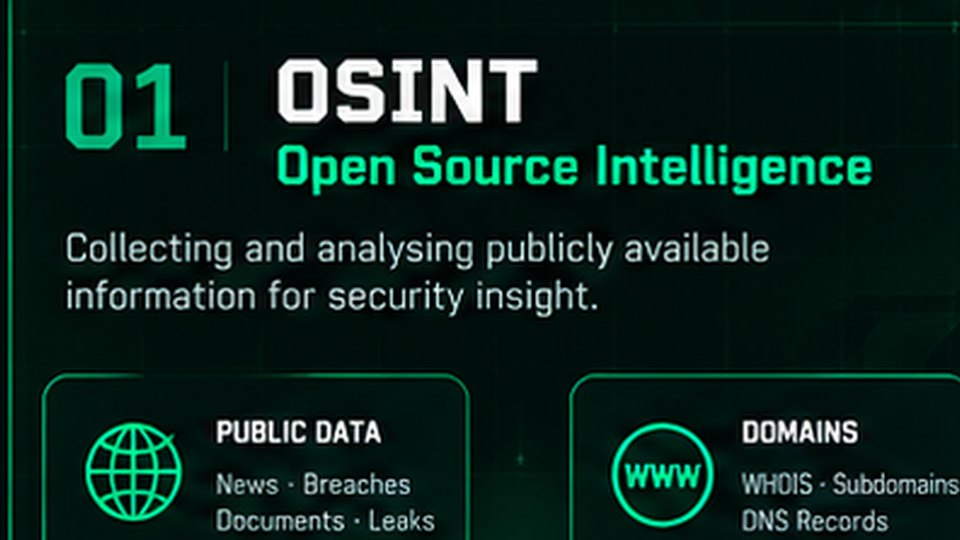
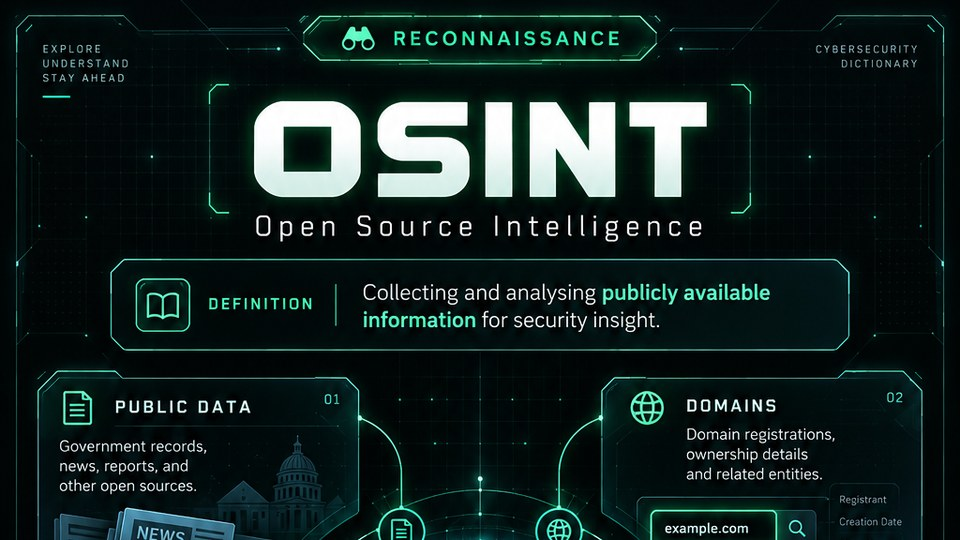
Release CyberDict v0.8 with expanded visual knowledge library

diff --git a/public/index.html b/public/index.html
@@ -1,7 +1,7 @@
 <!doctype html><html lang="en"><head><meta charset="utf-8"><meta name="viewport" content="width=device-width,initial-scale=1">
 <title>CyberDict · Cybersecurity Knowledge Explorer</title>
 <meta name="description" content="A community cybersecurity dictionary and interactive knowledge explorer for offensive security, defensive security, purple teaming and AI security.">
-<link rel="stylesheet" href="/assets/css/style.css?v=0.7.0"></head><body>
+<link rel="stylesheet" href="/assets/css/style.css?v=0.8.0"></head><body>
 <header class="topbar"><div class="wrap nav">
 <a class="brand" href="/"><div class="logo"><span>›</span></div><div><h1>Cyber<b>Dict</b></h1><small>CYBERSECURITY KNOWLEDGE EXPLORER</small></div></a>
 <nav class="navlinks"><a class="active" href="/">Home</a><a href="/explore/">Dictionary</a><a href="/category/">Categories</a><a href="/learn/">Learn</a><a href="/about/">About</a></nav>
@@ -11,7 +11,7 @@
 <main>
 <section class="hero"><div class="wrap">
 <div class="hero-grid hero-grid-single"><div class="hero-copy">
-<div class="kicker">v0.7.0 &nbsp; // OPEN KNOWLEDGE &nbsp; // STRONGER SECURITY</div>
+<div class="kicker">v0.8.0 &nbsp; // OPEN KNOWLEDGE &nbsp; // STRONGER SECURITY</div>
 <h2>Cyber<span>Dict</span></h2>
 <h3>Cybersecurity Knowledge Explorer</h3>
 <p>Understand cybersecurity concepts, techniques, roles and frameworks through clear definitions, practical context and visual explanations.</p>
@@ -32,7 +32,7 @@
 <div class="stats">
 <div class="stat"><div class="n">40+</div><div><small>CURATED TERMS</small><em>Structured seed content</em></div></div>
 <div class="stat"><div class="n">12</div><div><small>KNOWLEDGE SECTORS</small><em>Broad security coverage</em></div></div>
-<div class="stat"><div class="n">20</div><div><small>VISUAL EXPLAINERS</small><em>Essential terminology</em></div></div>
+<div class="stat"><div class="n">24</div><div><small>VISUAL EXPLAINERS</small><em>Essential terminology</em></div></div>
 <div class="stat"><div class="n">MITRE / CWE / OWASP</div><div><small>FRAMEWORK MAPPINGS</small><em>Context where relevant</em></div></div>
 </div>
 </div></section>
@@ -54,7 +54,7 @@
 </div></div></section>
 
 <section class="section" id="essential"><div class="wrap">
-<div class="section-head"><h3>20 ESSENTIAL CYBERSECURITY TERMS</h3><a href="/explore/">FULL DICTIONARY →</a></div>
+<div class="section-head"><h3>ESSENTIAL CYBERSECURITY TERMS</h3><a href="/explore/">FULL DICTIONARY →</a></div>
 <div id="essentialGrid" class="essential-grid"></div>
 </div></section>
 
@@ -66,4 +66,4 @@
 </div>
 </div></section>
 </main><footer class="footer"><div class="wrap row"><div><b style="color:#cfe2d5">Cyber<span style="color:#00ff66">Dict</span></b> · Cybersecurity Knowledge Explorer</div><div>OPEN KNOWLEDGE · PRACTICAL SECURITY · COMMUNITY DRIVEN</div></div></footer>
-<script src="/assets/js/app.js?v=0.7.0"></script><script>initHome()</script></body></html>
+<script src="/assets/js/app.js?v=0.8.0"></script><script>initHome()</script></body></html>

diff --git a/public/assets/js/app.js b/public/assets/js/app.js
@@ -8,7 +8,7 @@ function esc(s){return String(s??'').replace(/[&<>"']/g,m=>({'&':'&amp;','<':'&l
 function diffClass(d){return d==='Beginner'?'green':d==='Advanced'?'red':'yellow'}
 function termUrl(t){return `/term/?id=${encodeURIComponent(t.id)}`}
 function categoryUrl(c){return `/category/?id=${encodeURIComponent(c.id)}`}
-const RASTER_TERM_IDS=new Set(['ctf','c2','red-team','blue-team','purple-team','soc','siem','edr','osint','phishing','privilege-escalation','persistence','lateral-movement','pivoting','ttps','ioc','mitre-attck','vulnerability','exploit','incident-response']);
+const RASTER_TERM_IDS=new Set(['ctf','c2','red-team','blue-team','purple-team','soc','siem','edr','osint','phishing','privilege-escalation','persistence','lateral-movement','pivoting','ttps','ioc','mitre-attck','vulnerability','exploit','incident-response','threat-hunting','zero-trust','ransomware','mfa']);
 function visualUrl(t){const id=encodeURIComponent(t.id);return `/assets/img/terms/${id}.${RASTER_TERM_IDS.has(t.id)?'png':'svg'}` }
 function previewUrl(t){const id=encodeURIComponent(t.id);return RASTER_TERM_IDS.has(t.id)?`/assets/img/previews/${id}.jpg`:visualUrl(t)}
 function doSearch(inputId='heroSearch', resultsId='searchResults'){
@@ -22,7 +22,7 @@ function doSearch(inputId='heroSearch', resultsId='searchResults'){
 function renderHome(){
   const cats=document.getElementById('categories');
   if(cats) cats.innerHTML=CATEGORIES.slice(0,12).map(c=>`<a class="cat" href="${categoryUrl(c)}"><div class="ic">${c.icon}</div><div><b>${esc(c.name)}</b><span>${c.count} concepts</span></div></a>`).join('');
-  const essentialIds=['ctf','c2','red-team','blue-team','purple-team','soc','siem','edr','osint','phishing','privilege-escalation','persistence','lateral-movement','pivoting','ttps','ioc','mitre-attck','vulnerability','exploit','incident-response'];
+  const essentialIds=['ctf','c2','red-team','blue-team','purple-team','soc','siem','edr','osint','phishing','privilege-escalation','persistence','lateral-movement','pivoting','ttps','ioc','mitre-attck','vulnerability','exploit','incident-response','threat-hunting','zero-trust','ransomware','mfa'];
   const essentials=essentialIds.map(id=>TERMS.find(t=>t.id===id)).filter(Boolean);
   const featured=document.getElementById('featuredPrimary');
   if(featured && essentials[0]){

diff --git a/public/explore/index.html b/public/explore/index.html
@@ -1,4 +1,4 @@
-<!doctype html><html lang="en"><head><meta charset="utf-8"><meta name="viewport" content="width=device-width,initial-scale=1"><title>Explore · CyberDict</title><link rel="stylesheet" href="/assets/css/style.css?v=0.7.0"></head><body>
+<!doctype html><html lang="en"><head><meta charset="utf-8"><meta name="viewport" content="width=device-width,initial-scale=1"><title>Explore · CyberDict</title><link rel="stylesheet" href="/assets/css/style.css?v=0.8.0"></head><body>
 <header class="topbar">
   <div class="wrap nav">
     <a class="brand" href="/"><div class="logo"><span>↗</span></div><div><h1>Cyber<b>Dict</b></h1><small>CYBERSECURITY KNOWLEDGE EXPLORER</small></div></a>
@@ -10,4 +10,4 @@
 <section class="section"><div class="wrap"><div class="section-head"><h3>ALL CURRENT TERMS</h3></div><div id="allTerms" class="terms-grid"></div></div></section></main>
 <footer class="footer"><div class="wrap row"><div><b style="color:#cfe2d5">Cyber<span style="color:#00ff66">Dict</span></b> · Community cybersecurity knowledge explorer</div><div>OPEN KNOWLEDGE · PRACTICAL SECURITY · COMMUNITY DRIVEN</div></div></footer>
 
-<script src="/assets/js/app.js?v=0.7.0"></script><script>(async()=>{await loadData();document.getElementById('allTerms').innerHTML=TERMS.map(t=>`<a class="term-card" href="${termUrl(t)}"><h4>${esc(t.term)}</h4><p>${esc(t.shortDefinition)}</p><div class="pills"><span class="pill green">${esc(t.category)}</span><span class="pill ${diffClass(t.difficulty)}">${esc(t.difficulty)}</span></div></a>`).join('');document.getElementById('heroSearch').addEventListener('input',()=>doSearch())})()</script></body></html>
+<script src="/assets/js/app.js?v=0.8.0"></script><script>(async()=>{await loadData();document.getElementById('allTerms').innerHTML=TERMS.map(t=>`<a class="term-card" href="${termUrl(t)}"><h4>${esc(t.term)}</h4><p>${esc(t.shortDefinition)}</p><div class="pills"><span class="pill green">${esc(t.category)}</span><span class="pill ${diffClass(t.difficulty)}">${esc(t.difficulty)}</span></div></a>`).join('');document.getElementById('heroSearch').addEventListener('input',()=>doSearch())})()</script></body></html>

diff --git a/public/learn/index.html b/public/learn/index.html
@@ -1,4 +1,4 @@
-<!doctype html><html lang="en"><head><meta charset="utf-8"><meta name="viewport" content="width=device-width,initial-scale=1"><title>Learn · CyberDict</title><link rel="stylesheet" href="/assets/css/style.css?v=0.7.0"></head><body>
+<!doctype html><html lang="en"><head><meta charset="utf-8"><meta name="viewport" content="width=device-width,initial-scale=1"><title>Learn · CyberDict</title><link rel="stylesheet" href="/assets/css/style.css?v=0.8.0"></head><body>
 <header class="topbar">
   <div class="wrap nav">
     <a class="brand" href="/"><div class="logo"><span>↗</span></div><div><h1>Cyber<b>Dict</b></h1><small>CYBERSECURITY KNOWLEDGE EXPLORER</small></div></a>
@@ -10,4 +10,4 @@
 <section class="section"><div class="wrap"><div class="categories" id="learnCats"></div></div></section></main>
 <footer class="footer"><div class="wrap row"><div><b style="color:#cfe2d5">Cyber<span style="color:#00ff66">Dict</span></b> · Community cybersecurity knowledge explorer</div><div>OPEN KNOWLEDGE · PRACTICAL SECURITY · COMMUNITY DRIVEN</div></div></footer>
 
-<script src="/assets/js/app.js?v=0.7.0"></script><script>(async()=>{await loadData();document.getElementById('learnCats').innerHTML=CATEGORIES.map(c=>`<a class="cat" href="${categoryUrl(c)}"><div class="ic">${c.icon}</div><div><b>${esc(c.name)}</b><span>${esc(c.description)}</span></div></a>`).join('')})()</script></body></html>
+<script src="/assets/js/app.js?v=0.8.0"></script><script>(async()=>{await loadData();document.getElementById('learnCats').innerHTML=CATEGORIES.map(c=>`<a class="cat" href="${categoryUrl(c)}"><div class="ic">${c.icon}</div><div><b>${esc(c.name)}</b><span>${esc(c.description)}</span></div></a>`).join('')})()</script></body></html>

diff --git a/public/term/index.html b/public/term/index.html
@@ -1,4 +1,4 @@
-<!doctype html><html lang="en"><head><meta charset="utf-8"><meta name="viewport" content="width=device-width,initial-scale=1"><title>Term · CyberDict</title><link rel="stylesheet" href="/assets/css/style.css?v=0.7.0"></head><body>
+<!doctype html><html lang="en"><head><meta charset="utf-8"><meta name="viewport" content="width=device-width,initial-scale=1"><title>Term · CyberDict</title><link rel="stylesheet" href="/assets/css/style.css?v=0.8.0"></head><body>
 <header class="topbar">
   <div class="wrap nav">
     <a class="brand" href="/"><div class="logo"><span>↗</span></div><div><h1>Cyber<b>Dict</b></h1><small>CYBERSECURITY KNOWLEDGE EXPLORER</small></div></a>
@@ -18,4 +18,4 @@
 <aside class="sidebar-card"><h4>RELATED TERMS</h4><div class="list" id="relatedList"></div><h4 style="margin-top:22px">CYBERDICT</h4><p style="color:#789183;font-size:10px;line-height:1.5">Open knowledge. Practical security. Structured explanations across offensive and defensive disciplines.</p></aside>
 </div></section></main>
 <footer class="footer"><div class="wrap row"><div><b style="color:#cfe2d5">Cyber<span style="color:#00ff66">Dict</span></b> · Community cybersecurity knowledge explorer</div><div>OPEN KNOWLEDGE · PRACTICAL SECURITY · COMMUNITY DRIVEN</div></div></footer>
-<script src="/assets/js/app.js?v=0.7.0"></script><script>initTerm()</script></body></html>
+<script src="/assets/js/app.js?v=0.8.0"></script><script>initTerm()</script></body></html>

diff --git a/public/category/index.html b/public/category/index.html
@@ -1,4 +1,4 @@
-<!doctype html><html lang="en"><head><meta charset="utf-8"><meta name="viewport" content="width=device-width,initial-scale=1"><title>Categories · CyberDict</title><link rel="stylesheet" href="/assets/css/style.css?v=0.7.0"></head><body>
+<!doctype html><html lang="en"><head><meta charset="utf-8"><meta name="viewport" content="width=device-width,initial-scale=1"><title>Categories · CyberDict</title><link rel="stylesheet" href="/assets/css/style.css?v=0.8.0"></head><body>
 <header class="topbar">
   <div class="wrap nav">
     <a class="brand" href="/"><div class="logo"><span>↗</span></div><div><h1>Cyber<b>Dict</b></h1><small>CYBERSECURITY KNOWLEDGE EXPLORER</small></div></a>
@@ -9,4 +9,4 @@
 <main><section class="page-hero"><div class="wrap"><div class="kicker">// KNOWLEDGE SECTOR</div><h2 id="categoryTitle">Category</h2><p id="categoryDesc"></p></div></section>
 <section class="section"><div class="wrap"><div class="terms-grid" id="categoryTerms"></div></div></section></main>
 <footer class="footer"><div class="wrap row"><div><b style="color:#cfe2d5">Cyber<span style="color:#00ff66">Dict</span></b> · Community cybersecurity knowledge explorer</div><div>OPEN KNOWLEDGE · PRACTICAL SECURITY · COMMUNITY DRIVEN</div></div></footer>
-<script src="/assets/js/app.js?v=0.7.0"></script><script>initCategory()</script></body></html>
+<script src="/assets/js/app.js?v=0.8.0"></script><script>initCategory()</script></body></html>

diff --git a/public/about/index.html b/public/about/index.html
@@ -1,4 +1,4 @@
-<!doctype html><html lang="en"><head><meta charset="utf-8"><meta name="viewport" content="width=device-width,initial-scale=1"><title>About · CyberDict</title><link rel="stylesheet" href="/assets/css/style.css?v=0.7.0"></head><body>
+<!doctype html><html lang="en"><head><meta charset="utf-8"><meta name="viewport" content="width=device-width,initial-scale=1"><title>About · CyberDict</title><link rel="stylesheet" href="/assets/css/style.css?v=0.8.0"></head><body>
 <header class="topbar">
   <div class="wrap nav">
     <a class="brand" href="/"><div class="logo"><span>↗</span></div><div><h1>Cyber<b>Dict</b></h1><small>CYBERSECURITY KNOWLEDGE EXPLORER</small></div></a>

diff --git a/README.md b/README.md
@@ -1,24 +1,27 @@
 # CyberDict
 
-CyberDict is a community cybersecurity dictionary and interactive knowledge explorer for offensive security, defensive security, purple teaming and AI security.
+CyberDict is a community cybersecurity dictionary and visual knowledge explorer for offensive security, defensive security, purple teaming, identity, vulnerability research and AI security.
 
-## v0.1
+The project is designed around a simple flow: discover a term, understand it quickly, then open the full term page for a deeper textual and visual explanation.
 
-This first release establishes the design system and static-first architecture.
+## Features
 
-### Included
+- Searchable cybersecurity dictionary
+- Category and knowledge-sector browsing
+- Individual term pages with simple and technical explanations
+- Offensive and defensive relevance
+- Full visual explainers with click-to-open lightbox viewing
+- Compact homepage previews so the landing page stays fast and uncluttered
+- MITRE ATT&CK, CWE and OWASP mappings where relevant
+- Related-term navigation
+- Responsive dark CyberDict interface
+- Static-first deployment for Cloudflare Workers
 
-- Green/black CyberDict interface inspired by the visual language of `about.asifnawazminhas.com`
-- Searchable seed dictionary
-- Knowledge-sector/category browsing
-- Individual term pages
-- Offensive and defensive context
-- MITRE ATT&CK / CWE / OWASP fields
-- Related-term relationships
-- Explore, Learn and About pages
-- Ask AI placeholder for a later release
-- Responsive layout
-- Cloudflare static-assets configuration
+## Visual Knowledge Library
+
+CyberDict uses dedicated visual explainers for core concepts. The current visual set includes CTF, C2, Red Team, Blue Team, Purple Team, SOC, SIEM, EDR, OSINT, Phishing, Privilege Escalation, Persistence, Lateral Movement, Pivoting, TTPs, IoC, MITRE ATT&CK, Vulnerability, Exploit, Incident Response, Threat Hunting, Zero Trust, Ransomware and MFA.
+
+Homepage cards use lightweight previews. The complete infographic is displayed only on the individual term page.
 
 ## Structure
 
@@ -26,29 +29,27 @@ This first release establishes the design system and static-first architecture.
 cyberdict/
 ├── public/
 │   ├── assets/
-│   │   ├── css/style.css
-│   │   └── js/app.js
+│   │   ├── css/
+│   │   ├── img/
+│   │   │   ├── previews/
+│   │   │   └── terms/
+│   │   └── js/
 │   ├── data/
 │   │   ├── categories.json
-│   │   ├── terms.json
-│   │   └── relations.json
-│   ├── term/
+│   │   ├── relations.json
+│   │   └── terms.json
+│   ├── about/
 │   ├── category/
 │   ├── explore/
 │   ├── learn/
-│   ├── about/
-│   ├── index.html
-│   ├── manifest.webmanifest
-│   ├── robots.txt
-│   └── sitemap.xml
+│   ├── term/
+│   └── index.html
 ├── LICENSE
 ├── README.md
 └── wrangler.toml
 ```
 
-## Local preview
-
-Any static HTTP server can serve `public/`, for example:
+## Local Preview
 
 ```bash
 python3 -m http.server 8000 -d public
@@ -56,13 +57,17 @@ python3 -m http.server 8000 -d public
 
 Then open `http://localhost:8000`.
 
-## Cloudflare
-
-The repository includes `wrangler.toml` for Cloudflare Workers static assets.
+## Cloudflare Deployment
 
 ```bash
-npx wrangler deploy --assets ./public/
+npx wrangler deploy
 ```
+
+The production site is available at `https://cyberdict.asifnawazminhas.com`.
+
+## Contributing
+
+Contributions that improve definitions, relationships, visual explanations or knowledge coverage are welcome. Keep explanations clear, technically accurate and useful to security learners and practitioners.
 
 ## Author
 
@@ -77,41 +82,3 @@ Asif Nawaz Minhas
 ## License
 
 MIT
-
-## v0.2
-
-- Rebuilt the homepage into a more premium cybersecurity knowledge platform.
-- Reduced repetitive neon-green outlines and introduced stronger content hierarchy.
-- Added layered charcoal cards, selective green glow, cyan/amber/violet mode accents and improved spacing.
-- Added a new hero visual and refined search experience.
-- Added 20 essential cybersecurity explanations:
-  CTF, C2, Red Team, Blue Team, Purple Team, SOC, SIEM, EDR, OSINT, Phishing,
-  Privilege Escalation, Persistence, Lateral Movement, Pivoting, TTPs, IoC,
-  MITRE ATT&CK, Vulnerability, Exploit and Incident Response.
-- Added a dedicated visual SVG for every one of those 20 terms.
-- Added term-page visual artwork.
-- Added a 20-term visual explainer section on the homepage.
-
-
-## v0.5 update
-
-- Added unique visual explainer images for the first 20 essential cybersecurity terms.
-- Updated the site to use the richer PNG visual cards on homepage and term pages for those concepts.
-
-
-## v0.6
-
-- Replaced the first 10 essential-term thumbnails with the complete, full-resolution unique visual explainers.
-- Removed forced 16:9 cropping from term pages and homepage cards.
-- Visual explainers now use their natural portrait aspect ratio and display in full.
-- First batch: CTF, C2, Red Team, Blue Team, Purple Team, Incident Response, Vulnerability, Exploit, MITRE ATT&CK and Phishing.
-
-
-## v0.7
-
-- Reworked the homepage as a discovery surface instead of an infographic gallery.
-- Added lightweight 16:9 visual previews for the 20 essential terms.
-- Full visual explainers now remain on the individual term pages.
-- Added click-to-open full-screen lightbox viewing for term infographics.
-- Tightened Featured Knowledge into a balanced text + visual preview layout.
-- Reduced homepage visual density while preserving the full learning content one click deeper.
